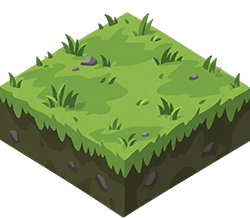
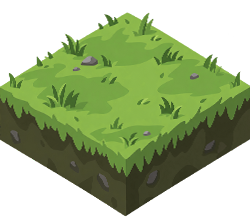
Actualizacion 16/09/2026  0:27:54,17

diff --git a/js/boardview.js b/js/boardview.js
@@ -4,23 +4,40 @@
    Regla de oro: un archivo por mecánica — esto solo controla la cámara del
    tablero, no genera ni pinta las losetas (eso vive en mapgen.js).
    Regla de oro: comodidad e intuitividad de controles en cualquier dispositivo
-   (ratón, pantalla táctil) y nivel Triple A en la sensación de manejo. */
+   (ratón, pantalla táctil) y nivel Triple A en la sensación de manejo.
+
+   La cámara funciona con un valor "objetivo" (target) que se actualiza al
+   instante con cada gesto, y un valor "mostrado" que persigue a ese objetivo
+   con una pequeña suavización (lerp) en cada frame — así el movimiento de la
+   cámara se siente suave y ligeramente "lazy" en vez de saltar de golpe. */
 
 const BoardView = {
   viewportEl: null,
   cameraEl: null,
 
-  scale: 1,
   minScale: 0.5,
   maxScale: 2.5,
+
+  // Valores objetivo: a dónde tiene que llegar la cámara.
+  targetScale: 1,
+  targetPanX: 0,
+  targetPanY: 0,
+
+  // Valores mostrados: lo que realmente se pinta, persiguiendo al objetivo.
+  scale: 1,
   panX: 0,
   panY: 0,
+
+  // Cuanto más bajo, más "lazy"/suave; cuanto más alto, más directo/inmediato.
+  EASE: 0.2,
+  SETTLE_EPSILON: 0.02,
 
   contentWidth: 0,
   contentHeight: 0,
 
   _dragState: null,
   _touchState: null,
+  _rafId: null,
 
   init() {
     this.viewportEl = document.getElementById("board-viewport");
@@ -35,17 +52,22 @@ const BoardView = {
   setContent(width, height) {
     this.contentWidth = width;
     this.contentHeight = height;
-    this.scale = 1;
+    this.targetScale = 1;
     this._centerContent();
   },
 
+  // Centra el contenido y, a diferencia de un gesto del jugador, lo hace
+  // al instante (sin suavizado) para que la pantalla no empiece "flotando".
   _centerContent() {
     if (!this.viewportEl) return;
     const vw = this.viewportEl.clientWidth;
     const vh = this.viewportEl.clientHeight;
-    this.panX = (vw - this.contentWidth * this.scale) / 2;
-    this.panY = (vh - this.contentHeight * this.scale) / 2;
-    this._clampPan();
+    this.targetPanX = (vw - this.contentWidth * this.targetScale) / 2;
+    this.targetPanY = (vh - this.contentHeight * this.targetScale) / 2;
+    this._clampTargetPan();
+    this.scale = this.targetScale;
+    this.panX = this.targetPanX;
+    this.panY = this.targetPanY;
     this._apply();
   },
 
@@ -53,20 +75,20 @@ const BoardView = {
     return Math.min(this.maxScale, Math.max(this.minScale, scale));
   },
 
-  _clampPan() {
+  _clampTargetPan() {
     if (!this.viewportEl) return;
     const vw = this.viewportEl.clientWidth;
     const vh = this.viewportEl.clientHeight;
-    const scaledW = this.contentWidth * this.scale;
-    const scaledH = this.contentHeight * this.scale;
+    const scaledW = this.contentWidth * this.targetScale;
+    const scaledH = this.contentHeight * this.targetScale;
 
     const minX = Math.min(0, vw - scaledW);
     const maxX = Math.max(0, vw - scaledW);
     const minY = Math.min(0, vh - scaledH);
     const maxY = Math.max(0, vh - scaledH);
 
-    this.panX = Math.min(maxX, Math.max(minX, this.panX));
-    this.panY = Math.min(maxY, Math.max(minY, this.panY));
+    this.targetPanX = Math.min(maxX, Math.max(minX, this.targetPanX));
+    this.targetPanY = Math.min(maxY, Math.max(minY, this.targetPanY));
   },
 
   _apply() {
@@ -74,16 +96,49 @@ const BoardView = {
   },
 
   _zoomAt(cx, cy, factor) {
-    const newScale = this._clampScale(this.scale * factor);
-    if (newScale === this.scale) return;
+    const newScale = this._clampScale(this.targetScale * factor);
+    if (newScale === this.targetScale) return;
     // Mantiene fijo bajo el cursor/dedos el punto de contenido que había ahí antes del zoom.
-    const contentX = (cx - this.panX) / this.scale;
-    const contentY = (cy - this.panY) / this.scale;
-    this.scale = newScale;
-    this.panX = cx - contentX * this.scale;
-    this.panY = cy - contentY * this.scale;
-    this._clampPan();
-    this._apply();
+    const contentX = (cx - this.targetPanX) / this.targetScale;
+    const contentY = (cy - this.targetPanY) / this.targetScale;
+    this.targetScale = newScale;
+    this.targetPanX = cx - contentX * this.targetScale;
+    this.targetPanY = cy - contentY * this.targetScale;
+    this._clampTargetPan();
+    this._startLoop();
+  },
+
+  _panBy(dx, dy) {
+    this.targetPanX += dx;
+    this.targetPanY += dy;
+    this._clampTargetPan();
+    this._startLoop();
+  },
+
+  // Bucle de suavizado: en cada frame acerca el valor mostrado al objetivo.
+  _startLoop() {
+    if (this._rafId) return;
+    const step = () => {
+      const dx = this.targetPanX - this.panX;
+      const dy = this.targetPanY - this.panY;
+      const ds = this.targetScale - this.scale;
+
+      if (Math.abs(dx) < this.SETTLE_EPSILON && Math.abs(dy) < this.SETTLE_EPSILON && Math.abs(ds) < 0.001) {
+        this.panX = this.targetPanX;
+        this.panY = this.targetPanY;
+        this.scale = this.targetScale;
+        this._apply();
+        this._rafId = null;
+        return;
+      }
+
+      this.panX += dx * this.EASE;
+      this.panY += dy * this.EASE;
+      this.scale += ds * this.EASE;
+      this._apply();
+      this._rafId = requestAnimationFrame(step);
+    };
+    this._rafId = requestAnimationFrame(step);
   },
 
   _bindEvents() {
@@ -117,10 +172,7 @@ const BoardView = {
       const dy = e.clientY - this._dragState.lastY;
       this._dragState.lastX = e.clientX;
       this._dragState.lastY = e.clientY;
-      this.panX += dx;
-      this.panY += dy;
-      this._clampPan();
-      this._apply();
+      this._panBy(dx, dy);
     });
 
     window.addEventListener("mouseup", () => {
@@ -144,7 +196,7 @@ const BoardView = {
           this._touchState = {
             mode: "pinch",
             startDist: touchDist(t1, t2),
-            startScale: this.scale,
+            startScale: this.targetScale,
           };
         }
       },
@@ -164,16 +216,13 @@ const BoardView = {
           const dy = t.clientY - this._touchState.lastY;
           this._touchState.lastX = t.clientX;
           this._touchState.lastY = t.clientY;
-          this.panX += dx;
-          this.panY += dy;
-          this._clampPan();
-          this._apply();
+          this._panBy(dx, dy);
         } else if (this._touchState.mode === "pinch" && e.touches.length === 2) {
           const [t1, t2] = e.touches;
           const dist = touchDist(t1, t2);
           const midX = (t1.clientX + t2.clientX) / 2 - rect.left;
           const midY = (t1.clientY + t2.clientY) / 2 - rect.top;
-          const factor = (dist / this._touchState.startDist) * (this._touchState.startScale / this.scale);
+          const factor = (dist / this._touchState.startDist) * (this._touchState.startScale / this.targetScale);
           this._zoomAt(midX, midY, factor);
         }
       },
@@ -189,8 +238,14 @@ const BoardView = {
       }
     });
 
-    // Si la ventana cambia de tamaño, reajustamos los límites de desplazamiento.
-    window.addEventListener("resize", () => this._clampPan());
+    // Si la ventana cambia de tamaño, reajustamos los límites de desplazamiento
+    // al instante (no es un gesto del jugador, no necesita suavizado).
+    window.addEventListener("resize", () => {
+      this._clampTargetPan();
+      this.panX = this.targetPanX;
+      this.panY = this.targetPanY;
+      this._apply();
+    });
   },
 };
 

diff --git a/debug/calibrar-losetas.html b/debug/calibrar-losetas.html
@@ -48,13 +48,13 @@
 
   <div class="panel">
     <div class="control">
-      <label for="topHeight">Alineación vertical (alto de la cara superior) — <span class="value" id="topHeightVal">87</span> px</label>
-      <input type="range" id="topHeight" min="20" max="150" step="1" value="87">
+      <label for="topHeight">Alineación vertical (alto de la cara superior) — <span class="value" id="topHeightVal">86</span> px</label>
+      <input type="range" id="topHeight" min="0" max="260" step="1" value="86">
       <span class="hint">Mueve el slider hasta que las losetas encajen en vertical sin huecos ni solapes en el borde de tierra. Luego dime el número que te sale.</span>
     </div>
     <div class="control">
       <label for="tileWidth">Alineación horizontal (ancho de loseta) — <span class="value" id="tileWidthVal">250</span> px</label>
-      <input type="range" id="tileWidth" min="150" max="320" step="1" value="250">
+      <input type="range" id="tileWidth" min="50" max="420" step="1" value="250">
       <span class="hint">Solo tócalo si también ves huecos o solapes en horizontal.</span>
     </div>
   </div>
@@ -66,7 +66,7 @@
   <script>
     const TILE_IMG = "../assets/losetas/hierba_01.png";
     const TILE_IMG_WIDTH = 250;   // ancho real del archivo (fijo, no cambia)
-    const TILE_IMG_HEIGHT = 218;  // alto real del archivo (fijo, no cambia)
+    const TILE_IMG_HEIGHT = 217;  // alto real del archivo (fijo, no cambia)
     const GRID_SIZE = 6;
 
     const topHeightInput = document.getElementById("topHeight");

diff --git a/js/mapgen.js b/js/mapgen.js
@@ -16,9 +16,9 @@ const TILE_TYPES = {
 };
 
 // Dimensiones reales de la loseta base (hierba_01.png), en píxeles:
-// ancho total = 250, alto de la cara superior (hierba) = 87, profundidad del bloque = 131.
+// ancho total = 250, alto de la cara superior (hierba) = 86, profundidad del bloque = 131.
 const TILE_WIDTH = 250;
-const TILE_TOP_HEIGHT = 87;
+const TILE_TOP_HEIGHT = 86;
 const TILE_DEPTH = 131;
 const TILE_TOTAL_HEIGHT = TILE_TOP_HEIGHT + TILE_DEPTH;
 
